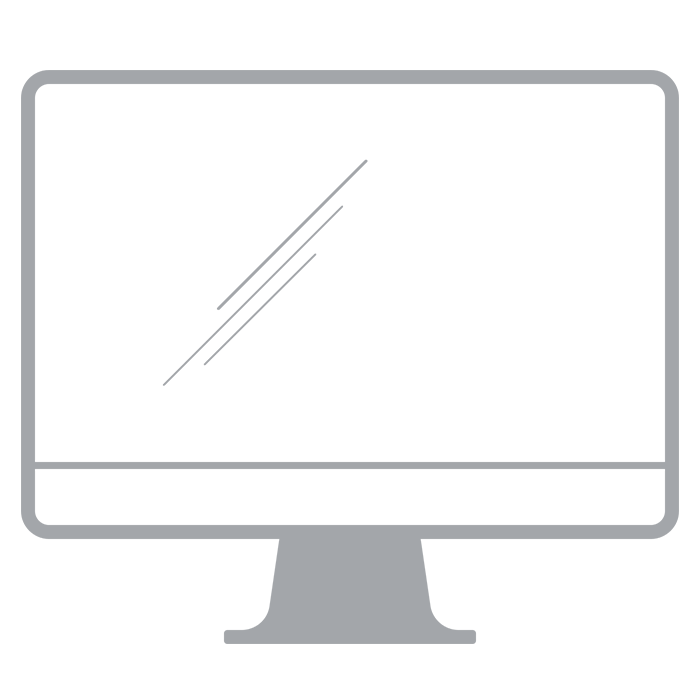
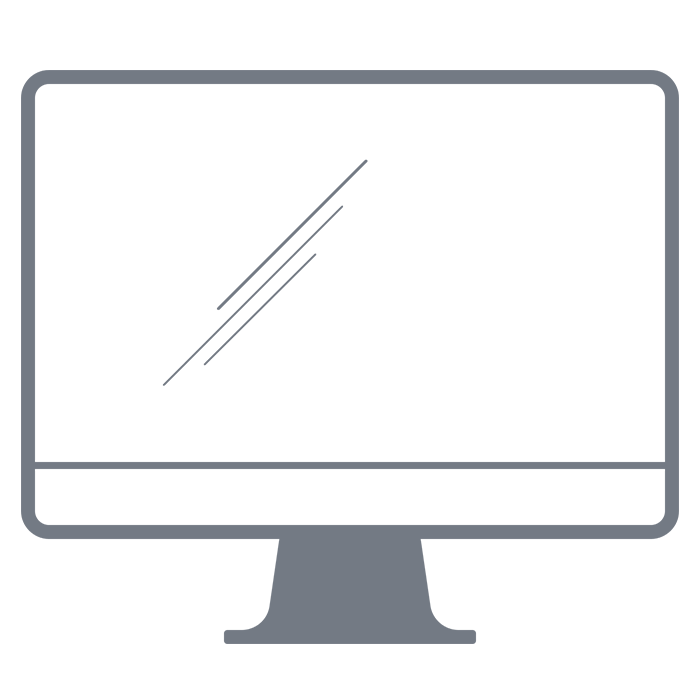
Update studio app images

diff --git a/src/scss/helpers/_vars.scss b/src/scss/helpers/_vars.scss
@@ -11,6 +11,7 @@ $bp-small: 30em;
 $violet: #313E62;
 $grey: #9A9A9A;
 $grey--violet: #9C91A8;
+$grey--blue: #737a83;
 $blue--dark: #313E62;
 $blue--light: #93CFED;
 $yellow: #F8E650;

diff --git a/src/scss/partials/slides.scss b/src/scss/partials/slides.scss
@@ -141,7 +141,7 @@ img {
         width: 80%;
       }
       h2 {
-        color: #a3a6aa;
+        color: $grey--blue;
       }
       &:last-of-type {
         display: block;
